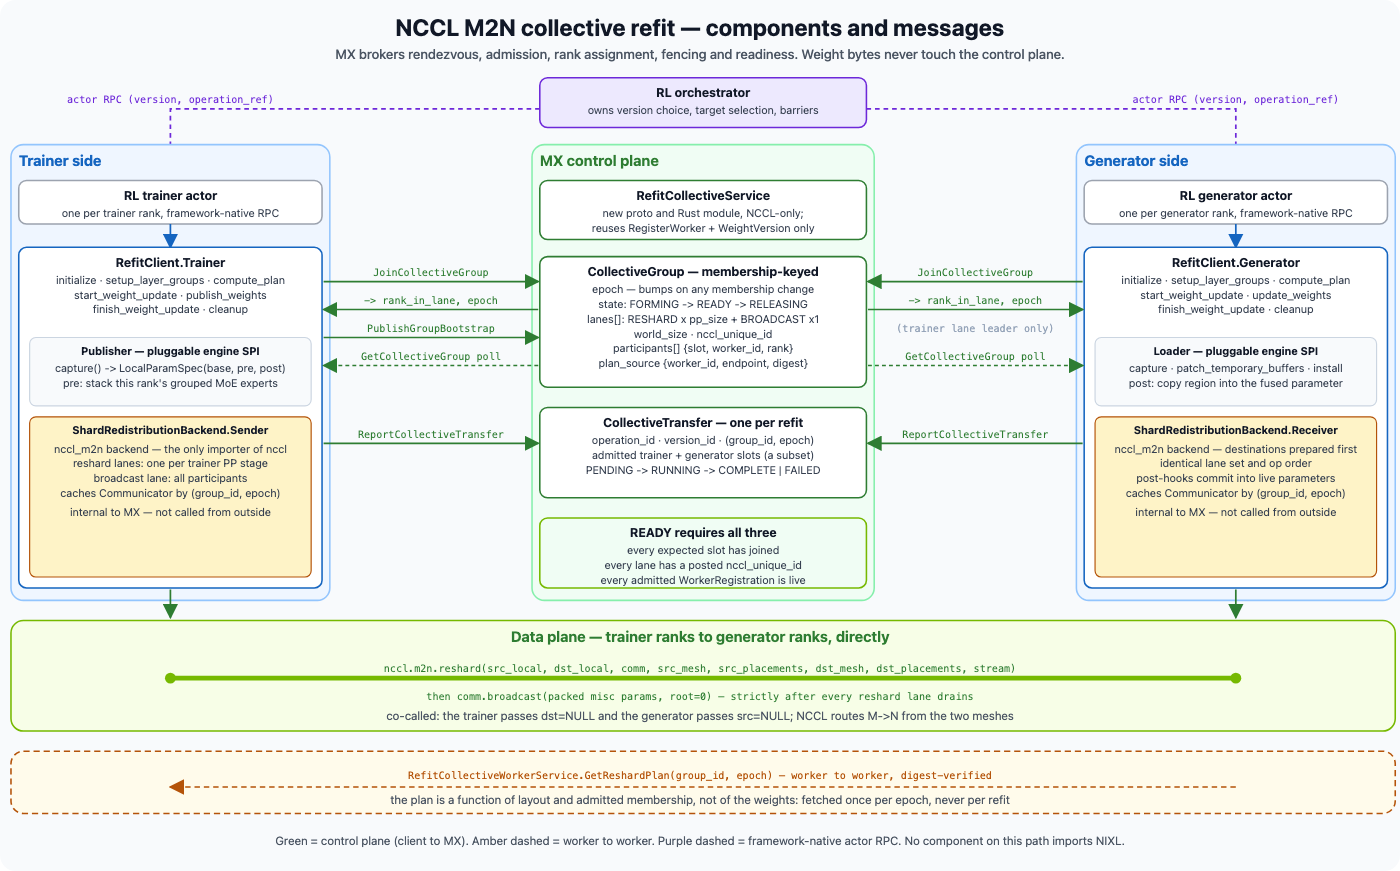
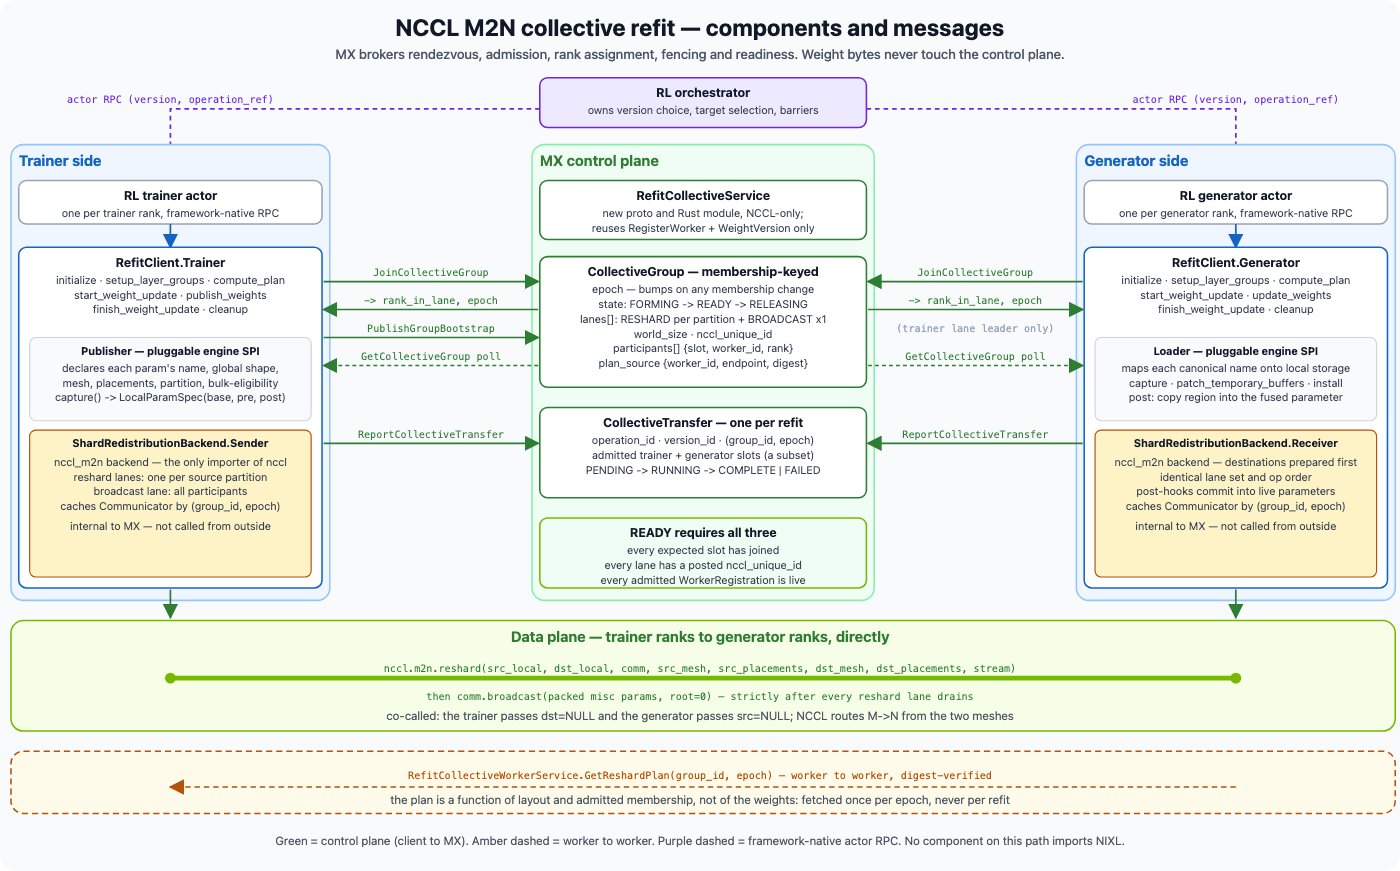
docs(refit): separate transport mechanism from framework policy
The plan derivation carried assumptions from one trainer and one inference
engine into what is meant to be the shared core: a hardcoded bulk-parameter
whitelist, a hardcoded device-mesh ordering, and shard dimensions inferred by
matching parameter names. A trainer that lays its ranks out differently would
have got wrong meshes with no error, only wrong bytes.

Invert it. The Publisher declares each parameter's canonical name, global
shape, mesh, placements, partition and bulk-eligibility; the shared core stops
inferring any of it. The prior behaviour ships as an opt-in default derivation
so the common case stays cheap.

Generalize reshard lanes from trainer pipeline stages to disjoint source
partitions, with pipeline stages as the common instance, and explain why
partitioning beats one global communicator: a collective requires every member
to enter every operation, so one communicator makes each parameter a
fleet-wide barrier.

Record the first Publisher's and Loader's restrictions as limitations with an
owner, rather than leaving them implicit.

Changed region(s): [[0.0, 0.403, 0.2457, 0.62], [0.7679, 0.403, 0.9829, 0.62], [0.43, 0.341, 0.5836, 0.372]]

diff --git a/docs/NCCL_M2N_REFIT.md b/docs/NCCL_M2N_REFIT.md
@@ -110,17 +110,31 @@ deployment and a NeMo-RL-native deployment move identical bytes:
 - `nccl.m2n.reshard` from the **nccl4py** package is the default and only wire op
   (`xferdtensor`'s pure-Python and golden paths are debugging aids, not our
   contract).
-- Parameters are keyed by **HuggingFace (HF) names** with **global shapes**; per-expert
-  Mixture-of-Experts (MoE) weights are grouped into one
-  `...experts.{gate,up,down}_proj.weight` entry of shape `[E, ...]`.
-- Source and destination layouts are described as a **rank mesh** plus DTensor
+Adopted as **mechanism**, and framework-neutral:
+
+- `nccl.m2n.reshard` from the **nccl4py** package as the wire op.
+- Parameters keyed by a **canonical name** carrying a **global shape**, with per-expert
+  Mixture-of-Experts (MoE) weights grouped into one entry of shape `[E, ...]`.
+- Source and destination layouts described as a **rank mesh** plus DTensor
   **`Shard(dim)` / `Replicate()`** placements.
-- Communicators are **per trainer Pipeline Parallelism (PP) stage**: stage `s`'s trainer
-  ranks plus all participating generator ranks. Rank order within a group is **trainer ranks
-  first, generator ranks after**.
-- A **bulk/misc split**: feed-forward network (FFN) projection weights take the reshard
-  path (97-98% of the bytes on large MoE models); everything else rides a packed broadcast over a
-  separate all-participants communicator.
+- One communicator per **disjoint source partition**, spanning that partition's trainer
+  ranks plus all participating generator ranks, with **trainer ranks first**.
+- A **bulk/misc split**: parameters whose layout the reshard can express take the collective
+  path; the rest ride a packed broadcast on a separate all-participants communicator.
+
+Adopted as **default policy**, and overridable per deployment:
+
+- HuggingFace (HF) names as the canonical namespace. It is what vLLM, SGLang, and TRT-LLM
+  already consume, so it is the useful default — but it is a Publisher choice, not a
+  property of this path.
+- Pipeline Parallelism (PP) stage as the source partition. It is the common case, not the
+  only one.
+- Feed-forward network (FFN) projection weights as the bulk set. That is a profiling result
+  about MoE models (97-98% of refit bytes there, ~67% on a dense model), not a property of
+  the transport.
+
+The line between those two lists is the whole of this path's portability, so
+[The plan](#the-plan-mesh-and-placement-contract) states where each is decided.
 
 Where NeMo RL and MX differ is precisely the piece MX is asked to own:
 
@@ -177,7 +191,7 @@ pull path and the NCCL push path never share a type.
 | Resource | Lifetime | Owner |
 |---|---|---|
 | `CollectiveGroup` | Membership-keyed; reused across refits; `epoch` bumps on membership change | MX |
-| `CollectiveLane` | One per group per communicator (per trainer PP stage, plus one broadcast lane) | MX |
+| `CollectiveLane` | One per group per communicator (one per source partition, plus one broadcast lane) | MX |
 | `CollectiveTransfer` | One per refit operation; references `(group_id, epoch)` and a `version_id` | MX |
 
 Splitting group from operation reconciles two requirements that read as being in
@@ -195,24 +209,38 @@ two different spans:
 
 | Lane kind | Count | Span | Carries |
 |---|---|---|---|
-| `LANE_KIND_RESHARD` | `trainer_pp_size` | PP stage `s`'s trainer ranks + all admitted generator ranks | `nccl.m2n.reshard` bulk params |
+| `LANE_KIND_RESHARD` | one per source partition | that partition's trainer ranks + all admitted generator ranks | `nccl.m2n.reshard` bulk params |
 | `LANE_KIND_BROADCAST` | 1 | All admitted trainer + generator ranks | Packed misc-param broadcast |
 
-This is NeMo RL's `pp_comm_group` / `model_update_group` split, promoted from two
-ad-hoc `StatelessProcessGroup`s into one MX-brokered resource. Keeping the bulk
-path on its own communicators is not cosmetic: the workers must run the misc
-broadcast strictly after the bulk reshard, because concurrent traffic on
-overlapping communicators can deadlock.
+A **source partition** is a set of trainer ranks that jointly own a disjoint slice of the
+parameters. The Publisher declares which partition each parameter belongs to; MX only counts
+them. Pipeline Parallelism (PP) stages are the common instance — stage `s` owns a disjoint
+set of layers — but nothing here requires the partition to *be* PP, and a single-partition
+trainer is just the degenerate case of one reshard lane.
+
+Why partition at all, rather than one communicator over everyone: **a collective requires
+every member to enter every operation.** With one global communicator, a trainer rank that
+owns none of a parameter would still have to enter that parameter's `reshard` as a no-op
+participant. Every parameter becomes a fleet-wide barrier and the partitions serialize behind
+each other. Separate lanes make them independent, so they overlap on separate Compute Unified
+Device Architecture (CUDA) streams.
+
+Generator ranks sit in *every* reshard lane, because a generator holds all layers and so needs
+bytes from whichever partition owns each one.
+
+Keeping the bulk path on its own communicators is not cosmetic. The broadcast lane spans every
+rank, so it overlaps every reshard lane, and concurrent traffic on overlapping communicators
+can deadlock — the workers must drain all reshard lanes before the misc broadcast.
 
 ### Rank assignment
 
-MX assigns `rank_in_lane`. The rule reproduces NeMo RL's convention exactly, so
-the mesh arithmetic below is unchanged:
+MX assigns `rank_in_lane`. Trainers occupy the low ranks of a lane and generators follow, so
+each lane looks like a small self-contained world:
 
 ```text
-reshard lane s     world_size = trainer_ranks_per_stage + admitted_generator_count
-  trainer  index_in_role r  ->  rank_in_lane = r % trainer_ranks_per_stage
-  generator index_in_role g ->  rank_in_lane = trainer_ranks_per_stage + g
+reshard lane p     world_size = trainer_ranks_in_partition + admitted_generator_count
+  trainer  index_in_role r  ->  rank_in_lane = r % trainer_ranks_in_partition
+  generator index_in_role g ->  rank_in_lane = trainer_ranks_in_partition + g
 
 broadcast lane     world_size = trainer_world_size + admitted_generator_count
   trainer  index_in_role r  ->  rank_in_lane = r
@@ -287,7 +315,7 @@ carrying the group's own participant list, rather than as a hung stream.
 
 The reshard plan (see [The plan](#the-plan-mesh-and-placement-contract)) is one record per
 bulk parameter: HF name, global shape,
-dtype, source mesh and placements, destination mesh and placements, PP stage. For
+dtype, source mesh and placements, destination mesh and placements, partition. For
 a large MoE model that is on the order of hundreds of entries and hundreds of
 kilobytes. The pull path already established the rule: the full sealed manifest
 stays worker-served so that Custom Resource Definition (CRD) or etcd records stay small, while
@@ -302,49 +330,74 @@ never per refit.
 
 ## The plan: mesh and placement contract
 
-This is where NeMo RL's contract is adopted wholesale. The plan is torch-free
-data; only the backend touches tensors.
+The plan is torch-free data; only the backend touches tensors. It is **declared by the
+Publisher**, not inferred by the shared core. That inversion is what keeps this path
+portable, so it is worth being explicit about which component decides what.
 
-For each **bulk** parameter:
+### Mechanism versus policy
+
+| Decision | Owner | Why there |
+|---|---|---|
+| Rank assignment, lane membership, readiness, fencing | MX | Needs only role, lane, index — no parallelism semantics |
+| Executing the collective, stream assignment, buffer lifetime | Backend | Transport concerns |
+| Canonical name, global shape, dtype, mesh, placements, partition, bulk-eligibility | **Publisher** | Only the training framework knows how its own ranks are laid out |
+| Where each canonical name lives locally, and any staging | **Loader** | Only the inference engine knows its own storage |
+
+The shared core never inspects a parameter name to decide how it is sharded, and never
+assumes a device-mesh ordering. Both were the two most framework-specific things in the prior
+art, and both are silent-failure modes: a wrong mesh order does not raise, it moves the wrong
+bytes.
+
+### The declared plan
+
+For each **bulk** parameter the Publisher declares:
 
 ```text
 ParamPlan {
-  name                 # HF name, e.g. model.layers.3.mlp.experts.gate_proj.weight
-  global_shape         # full, unsharded
+  name              # canonical name, HF by default
+  global_shape      # full, unsharded
   dtype
-  pp_stage             # selects the reshard lane
-  src_mesh             # rank grid over this stage's trainer ranks
-  src_placements       # [Shard(d) | Replicate()] per mesh dim
-  dst_mesh             # rank grid over the admitted generator ranks
+  partition_id      # which source partition owns it -> selects the reshard lane
+  src_mesh          # rank grid over this partition's trainer ranks
+  src_placements    # [Shard(d) | Replicate()] per mesh dim
+  dst_mesh          # rank grid over the admitted generator ranks
   dst_placements
-  grouped_expert_proj  # optional: gate_proj | up_proj | down_proj
+  group_key         # optional: marks entries fused/stacked from several local tensors
 }
 ```
 
-Mesh construction follows NeMo RL's `build_mesh_info`: dims are emitted in the
-order `(tp, ep, dp, pp)`, size-1 dims are dropped, and the survivors are reversed
-into a row-major rank tensor, so the first surviving dim becomes the innermost
-(fastest-varying) axis. Non-expert parameters live on a TP mesh (`ep_size=1`);
-expert parameters live on an EP mesh (`tp_size=1`). Placements follow
-`get_placements`: 1-D parameters replicate; expert parameters `Shard(0)` on the EP
-axis; non-expert FFN weights `Shard(0)` for `gate_proj`/`up_proj`
-(column-parallel) and `Shard(1)` for `down_proj` (row-parallel).
+MX contributes exactly one thing to this: the **rank offsets**, because the destination set
+is the *admitted* generator subset rather than "all generators". `dst_mesh` is built at
+`rank_offset = trainer_ranks_in_partition` within each reshard lane, over the admitted
+generator count.
 
-The **only** thing MX changes is the rank offsets, and only because the
-destination rank set is now the *admitted* generator set rather than "all
-generators": `dst_mesh` is built with `rank_offset = trainer_ranks_per_stage`
-inside each reshard lane, over `len(admitted_generators)` ranks.
+Parameters the Publisher does not mark bulk-eligible go to the misc list and ride the
+broadcast lane in a deterministic order. That order is load-bearing: producer and consumer
+walk it in lockstep.
 
-Parameters not on the bulk whitelist (`is_bulk_param`: FFN projection weights,
-dense and MoE, excluding `shared_expert`) go to the misc list and ride the
-broadcast lane in a deterministic order. That order is load-bearing: producer and
-consumer walk it in lockstep.
+### Defaults, so the common case stays cheap
+
+Declaring a mesh per parameter would be tedious for a conventional Megatron-style trainer, so
+the shared core ships an opt-in default derivation the Publisher may call instead of writing
+its own:
+
+- **Mesh** — emit dims in the order `(tp, ep, dp, pp)`, drop size-1 dims, reverse the
+  survivors into a row-major rank tensor, so the first surviving dim is the innermost
+  (fastest-varying) axis. Non-expert parameters get a TP mesh (`ep_size=1`); expert
+  parameters get an EP mesh (`tp_size=1`).
+- **Placements** — 1-D parameters replicate; expert parameters `Shard(0)` on the EP axis;
+  column-parallel projections `Shard(0)` and row-parallel projections `Shard(1)`.
+- **Bulk set** — FFN projection weights, dense and MoE, excluding shared experts.
+
+These reproduce the prior art's behaviour exactly, so a Megatron-to-vLLM deployment gets it
+for free. A trainer that lays its ranks out differently — a Fully Sharded Data Parallel
+(FSDP) or DTensor-native trainer, say — declares its own and never touches these.
 
 ### Local realization: Publisher and Loader
 
-The plan says *what* moves. The Publisher and Loader say *where it lives locally*.
-This is NeMo RL's `LocalParamSpec` contract, adopted verbatim so that an existing
-Megatron or vLLM `build_hf_to_local_param_map` drops in unchanged:
+The plan says *what* moves. A second, smaller contract says *where it lives locally*. It is
+deliberately identical in shape to the prior art's, so an existing Megatron or vLLM
+name-to-local-tensor map drops in unchanged:
 
 ```python
 @dataclass
@@ -364,8 +417,21 @@ class LocalParamSpec:
   tensor.
 
 `pre`, `post`, and the wire op all enqueue on the same Compute Unified Device
-Architecture (CUDA) stream, so staging is
-ordered with the transfer without a host synchronize.
+Architecture (CUDA) stream, so staging is ordered with the transfer without a host
+synchronize.
+
+### Current limitations, and where they live
+
+These are properties of the **first Publisher and Loader**, not of the path. They are listed
+here so an integrator can see what they would have to lift, rather than discovering it as a
+silent constraint:
+
+| Limitation | Lives in | Why it is not structural |
+|---|---|---|
+| Generator-side pipeline parallelism must be 1 | Loader | Reshard lanes assume a generator holds every layer, so it can receive from every source partition. Generator-side PP needs destination partitions too — symmetric with the source side, not a new concept |
+| Generator expert parallelism is 1 or equal to its tensor parallelism | Loader | The Loader maps experts onto its own ranks; a different mapping is a different `dst_mesh`, which the Publisher already declares |
+| Source and destination dtype must match | Backend | The collective moves bytes. A converting path needs staging on the receive side, which the `pre`/`post` hooks can already express |
+| Expert tensor parallelism on the trainer is 1 | Default derivation only | A Publisher declaring its own meshes is unaffected |
 
 ## Lifecycle and sequencing
 
@@ -430,7 +496,7 @@ is exactly what the fused-parameter path already does.
 | Variable | Default | Purpose |
 |---|---|---|
 | `MX_REFIT_TRANSPORT` | `nixl` | `nccl_m2n` selects this path. One deployment, one backend |
-| `MX_NCCL_REFIT_NUM_STREAMS` | `2` | CUDA streams for overlapping per-PP-stage reshard lanes |
+| `MX_NCCL_REFIT_NUM_STREAMS` | `2` | CUDA streams for overlapping reshard lanes |
 | `MX_NCCL_REFIT_GROUP_TIMEOUT_S` | `600` | Deadline for `FORMING -> READY` |
 | `MX_NCCL_REFIT_POLL_INTERVAL_S` | `0.25` | `GetCollectiveGroup` poll backoff floor |
 | `MX_NCCL_REFIT_MISC_CHUNK_BYTES` | `268435456` | Packed misc-broadcast chunk size |
@@ -482,13 +548,18 @@ NeMo RL's existing builders port directly.
   requires every communicator member to enter every collective.
 - **Misc-path ownership.** The packed broadcast currently sits inside the NCCL
   backend. If a second push backend appears it should move up into the client.
-- **Layer-group granularity vs. lane count.** `layer_group_id` and `pp_stage` are
+- **Layer-group granularity vs. lane count.** `layer_group_id` and `partition_id` are
   independent partitions of the parameter set; their product determines wire-op
   count. There is a point where finer layer groups cost more in launch overhead
   than they save in trainer memory, which is what motivates layer grouping at all.
-- **Bulk whitelist coverage.** Inherited from NeMo RL: FFN projections only.
-  Attention projections are the obvious next increment for dense models, where the
-  bulk fraction is 67% rather than 97%.
+- **Default bulk set coverage.** The shipped default covers FFN projections only. Attention
+  projections are the obvious next increment for dense models, where the bulk fraction is
+  ~67% rather than ~97%. A Publisher can already widen this today by declaring
+  bulk-eligibility itself; the open question is what the *default* should be.
+- **Cost of declaring versus deriving.** Pushing mesh and placement declaration into the
+  Publisher removes the silent-wrong-bytes failure mode, but it moves real work onto every
+  new trainer integration. If the default derivation turns out to fit every trainer we
+  actually target, the extra surface is not paying for itself.
 
 ## Related documentation
 
